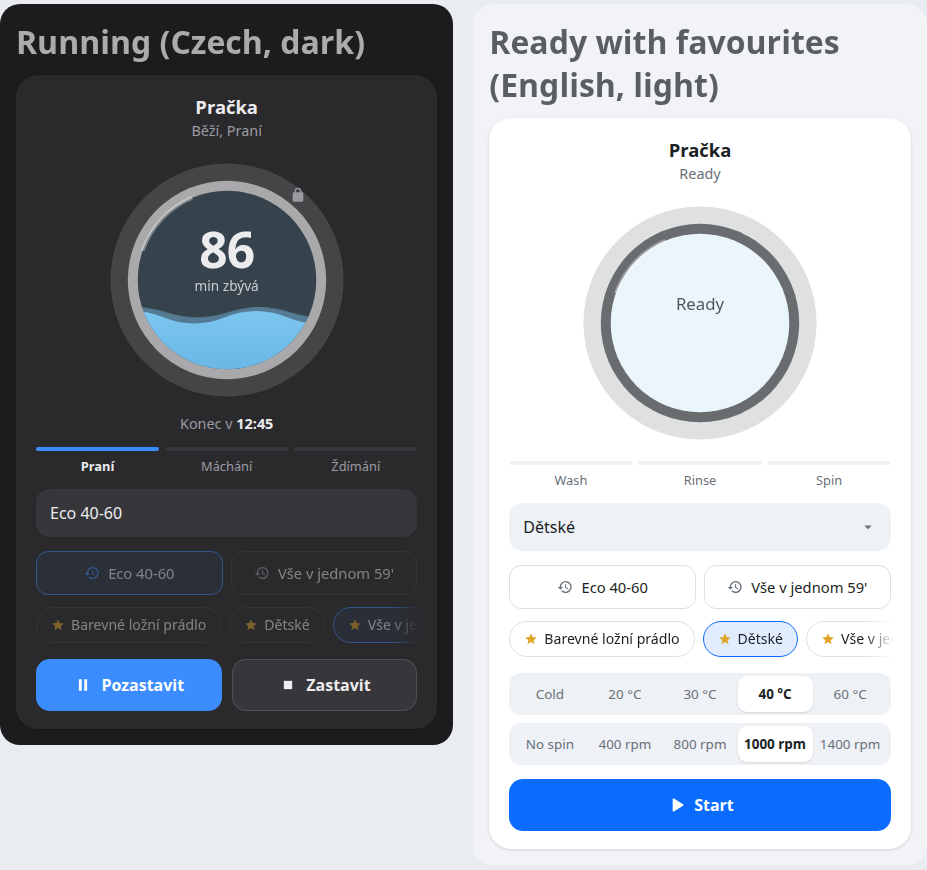
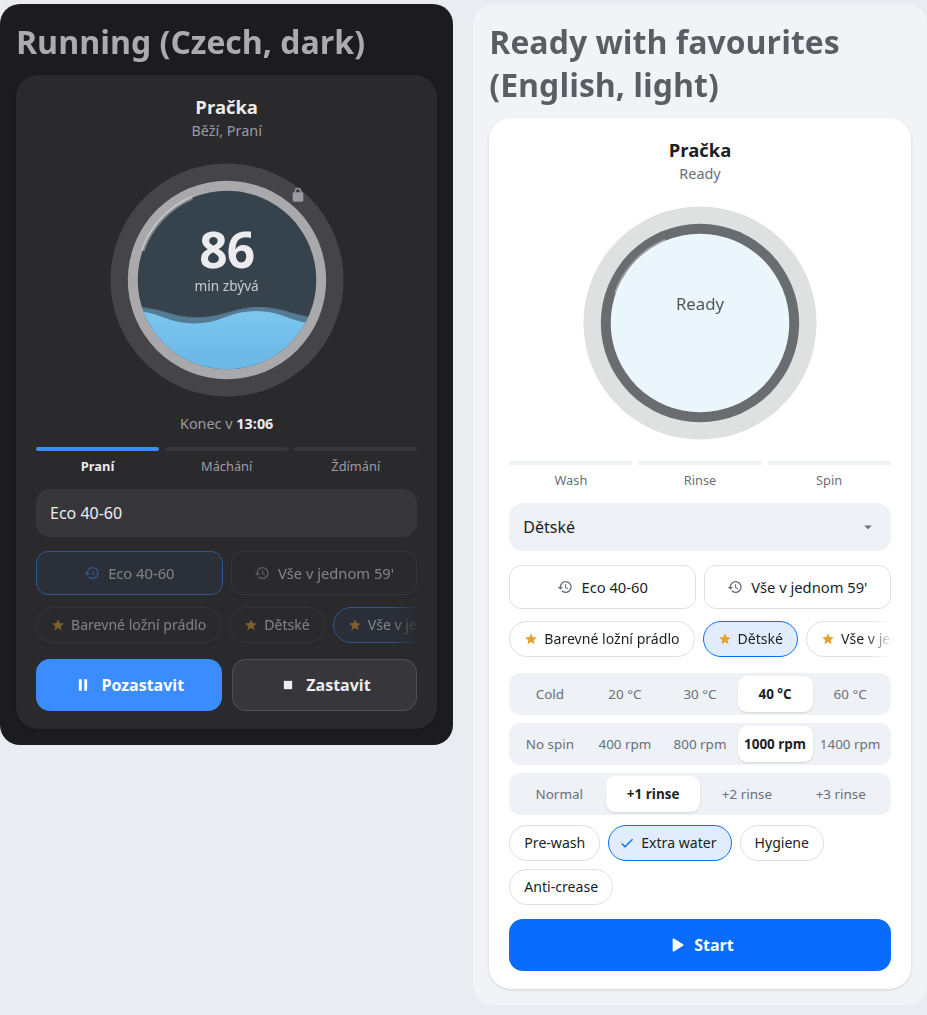
Wash options on the washing machine card
Pre-wash, extra water, hygiene, quiet night and anti-crease become pill
toggles, and the three mutually exclusive extra-rinse switches one
segmented choice. Only usable entities are shown, so the card follows what
the selected program — or favourite — allows. README screenshot refreshed.

Version 0.19.2.4.

diff --git a/custom_components/hon/www/hon-washer-card.js b/custom_components/hon/www/hon-washer-card.js
@@ -11,7 +11,18 @@ const ROLES = {
   start: ["switch", ["washing_machine", "washer_dryer", "tumble_dryer"]],
   pause: ["switch", ["pause"]],
   doorLock: ["binary_sensor", ["door_lock"]],
+  prewash: ["switch", ["prewash"]],
+  extraWater: ["switch", ["acqua_plus"]],
+  hygiene: ["switch", ["hygiene"]],
+  goodNight: ["switch", ["good_night"]],
+  antiCrease: ["switch", ["anti_crease"]],
+  rinse1: ["switch", ["extra_rinse_1"]],
+  rinse2: ["switch", ["extra_rinse_2"]],
+  rinse3: ["switch", ["extra_rinse_3"]],
 };
+
+const TOGGLES = ["prewash", "extraWater", "hygiene", "goodNight", "antiCrease"];
+const RINSES = ["rinse1", "rinse2", "rinse3"];
 
 const STAGES = {
   wash: ["weighting", "heating", "washing", "steam", "tumbling", "refresh"],
@@ -28,6 +39,8 @@ const TEXT = {
     resume: "Resume", remoteOff: "Remote start is off on the machine. Press its remote button to control it from here.",
     noDevice: "Choose a washing machine, washer-dryer or dryer from the hOn integration in the card settings.",
     temperature: "Temperature", spinSpeed: "Spin",
+    options: "Options", extraRinse: "Extra rinse", noExtraRinse: "Normal", plusRinse: "rinse",
+    prewash: "Pre-wash", extraWater: "Extra water", hygiene: "Hygiene", goodNight: "Quiet night", antiCrease: "Anti-crease",
   },
   cs: {
     wash: "Praní", rinse: "Máchání", spin: "Ždímání", dry: "Sušení",
@@ -36,6 +49,8 @@ const TEXT = {
     resume: "Pokračovat", remoteOff: "Dálkové ovládání je na pračce vypnuté. Zapněte ho tlačítkem na pračce.",
     noDevice: "V nastavení karty vyberte pračku, pračku se sušičkou nebo sušičku z integrace hOn.",
     temperature: "Teplota", spinSpeed: "Odstředění",
+    options: "Volby", extraRinse: "Máchání navíc", noExtraRinse: "Běžné", plusRinse: "máchání",
+    prewash: "Předpírka", extraWater: "Více vody", hygiene: "Hygiena", goodNight: "Tichý noční", antiCrease: "Proti zmačkání",
   },
 };
 
@@ -47,6 +62,7 @@ const ICONS = {
   history: "M13 3a9 9 0 0 0-9 9H1l3.9 3.9.1.1L9 12H6a7 7 0 1 1 2.05 4.95l-1.42 1.42A9 9 0 1 0 13 3Zm-1 5v5l4.25 2.52.77-1.28-3.52-2.09V8H12Z",
   lock: "M12 17a2 2 0 1 0 0-4 2 2 0 0 0 0 4Zm6-9h-1V6a5 5 0 0 0-10 0v2H6a2 2 0 0 0-2 2v10a2 2 0 0 0 2 2h12a2 2 0 0 0 2-2V10a2 2 0 0 0-2-2ZM9 6a3 3 0 0 1 6 0v2H9V6Z",
   chevron: "M7 10l5 5 5-5z",
+  check: "M9 16.17 4.83 12l-1.42 1.41L9 19 21 7l-1.41-1.41z",
 };
 
 const svgIcon = (path, size = 20) =>
@@ -214,6 +230,26 @@ class HonWasherCard extends HTMLElement {
     </div>`;
   }
 
+  _options(s) {
+    const e = s.e;
+    const rinses = RINSES.filter((r) => this._usable(e[r]));
+    const toggles = TOGGLES.filter((t) => this._usable(e[t]));
+    if (!rinses.length && !toggles.length) return "";
+    const chosen = RINSES.findIndex((r) => e[r]?.state === "on") + 1;
+    const rinseRow = rinses.length
+      ? `<div class="choice" role="radiogroup" aria-label="${escape(this._t("extraRinse"))}">
+          <button class="seg" role="radio" aria-checked="${chosen === 0}" data-rinse="0">${escape(this._t("noExtraRinse"))}</button>
+          ${rinses.map((r) => `<button class="seg" role="radio" aria-checked="${chosen === RINSES.indexOf(r) + 1}" data-rinse="${RINSES.indexOf(r) + 1}">+${RINSES.indexOf(r) + 1} ${escape(this._t("plusRinse"))}</button>`).join("")}
+        </div>`
+      : "";
+    const pills = toggles.length
+      ? `<div class="options" role="group" aria-label="${escape(this._t("options"))}">
+          ${toggles.map((t) => `<button class="opt" aria-pressed="${e[t].state === "on"}" data-toggle="${escape(e[t].entity_id)}">${e[t].state === "on" ? svgIcon(ICONS.check, 16) : ""}${escape(this._t(t))}</button>`).join("")}
+        </div>`
+      : "";
+    return rinseRow + pills;
+  }
+
   _actions(s) {
     if (s.active) {
       return `<button class="primary" data-action="${s.paused ? "resume" : "pause"}" ${this._usable(s.e.pause) ? "" : "disabled"}>${svgIcon(s.paused ? ICONS.play : ICONS.pause)}${escape(this._t(s.paused ? "resume" : "pause"))}</button>
@@ -260,7 +296,7 @@ class HonWasherCard extends HTMLElement {
         <div class="favourites" aria-label="${escape(this._t("favourites"))}">
           ${s.favourites.map((o) => `<button class="fav" aria-pressed="${o === e.program?.state}" data-select="${escape(e.favourite.entity_id)}" data-option="${escape(o)}" ${s.active ? "disabled" : ""}>${svgIcon(ICONS.star, 14)}${escape(o)}</button>`).join("")}
         </div>` : ""}
-      ${!s.active ? `<div class="settings">${this._chips(e.temperature, this._t("temperature"))}${this._chips(e.spin, this._t("spinSpeed"))}${this._chips(e.dryLevel, this._t("dry"))}</div>` : ""}
+      ${!s.active ? `<div class="settings">${this._chips(e.temperature, this._t("temperature"))}${this._chips(e.spin, this._t("spinSpeed"))}${this._chips(e.dryLevel, this._t("dry"))}${this._options(s)}</div>` : ""}
       <div class="actions">${this._actions(s)}</div>
       ${this._notice(s)}
     </ha-card>`;
@@ -308,6 +344,22 @@ class HonWasherCard extends HTMLElement {
       el.addEventListener("click", () =>
         this._call("select", "select_option", this._hass.states[el.dataset.select], { option: el.dataset.option }),
       ),
+    );
+    this.shadowRoot.querySelectorAll("[data-toggle]").forEach((el) =>
+      el.addEventListener("click", () => {
+        const stateObj = this._hass.states[el.dataset.toggle];
+        this._call("switch", stateObj?.state === "on" ? "turn_off" : "turn_on", stateObj);
+      }),
+    );
+    this.shadowRoot.querySelectorAll("[data-rinse]").forEach((el) =>
+      el.addEventListener("click", () => {
+        const want = Number(el.dataset.rinse);
+        RINSES.forEach((r, i) => {
+          const on = s.e[r]?.state === "on";
+          if (i + 1 === want && !on) this._call("switch", "turn_on", s.e[r]);
+          if (i + 1 !== want && on) this._call("switch", "turn_off", s.e[r]);
+        });
+      }),
     );
     this.shadowRoot.querySelector("[data-program]")?.addEventListener("change", (ev) =>
       this._call("select", "select_option", s.e.program, { option: ev.target.value }),
@@ -397,6 +449,11 @@ const STYLE = `<style>
   .fav[aria-pressed="true"] { background: color-mix(in srgb, var(--hon-action) 12%, transparent); border-color: var(--hon-action); }
 
   .settings { display: grid; gap: 8px; }
+  .options { display: flex; flex-wrap: wrap; gap: 8px; padding-top: 2px; }
+  .opt { display: inline-flex; align-items: center; gap: 6px; min-height: 36px; padding: 0 14px; border-radius: 18px; border: 1px solid var(--hon-line); background: none; color: var(--hon-ink); font: inherit; font-size: 0.88rem; cursor: pointer; }
+  .opt[aria-pressed="true"] { padding-left: 10px; background: color-mix(in srgb, var(--hon-action) 12%, transparent); border-color: var(--hon-action); }
+  .opt svg { color: var(--hon-action); }
+  .opt:focus-visible, .seg:focus-visible, .fav:focus-visible, .pick:focus-visible { outline: 2px solid var(--hon-action); outline-offset: 2px; }
   .settings:empty { display: none; }
   .choice { display: grid; grid-auto-flow: column; grid-auto-columns: minmax(0, 1fr); padding: 3px; border-radius: 12px; background: var(--hon-well); }
   .seg { min-height: 36px; padding: 0 4px; border: 0; border-radius: 9px; background: none; color: var(--hon-muted); font: inherit; font-size: 0.84rem; white-space: nowrap; overflow: hidden; text-overflow: ellipsis; cursor: pointer; }

diff --git a/dev/card-preview.html b/dev/card-preview.html
@@ -49,7 +49,7 @@
   };
   const UNITS = { "select.washer_temperature": " °C", "select.washer_spin": " rpm" };
 
-  function makeHass({ language, status, phase, remaining, program, start = "off", pause = "off", lock = "off" }) {
+  function makeHass({ language, status, phase, remaining, program, start = "off", pause = "off", lock = "off", options = [] }) {
     const states = {};
     const entities = {};
     const add = (entity_id, translation_key, state, attributes = {}) => {
@@ -71,6 +71,14 @@
     add("switch.washer_start", "washing_machine", start);
     add("switch.washer_pause", "pause", pause);
     add("binary_sensor.washer_door_lock", "door_lock", lock);
+    add("switch.washer_prewash", "prewash", options.includes("prewash") ? "on" : "off");
+    add("switch.washer_acquaplus", "acqua_plus", options.includes("extraWater") ? "on" : "off");
+    add("switch.washer_hygiene", "hygiene", "off");
+    add("switch.washer_good_night", "good_night", "unavailable");
+    add("switch.washer_anticrease", "anti_crease", "off");
+    add("switch.washer_rinse_1", "extra_rinse_1", options.includes("rinse1") ? "on" : "off");
+    add("switch.washer_rinse_2", "extra_rinse_2", "off");
+    add("switch.washer_rinse_3", "extra_rinse_3", "off");
     return {
       states, entities,
       devices: { washer: { name: "Pračka" } },
@@ -92,7 +100,7 @@
     document.getElementById(id).append(card);
   };
   mount("running", makeHass({ language: "cs", status: "running", phase: "washing", remaining: 86, program: "Vše v jednom 59'", start: "on", lock: "on" }));
-  mount("idle", makeHass({ language: "en", status: "ready", phase: "ready", remaining: 0, program: "Dětské" }));
+  mount("idle", makeHass({ language: "en", status: "ready", phase: "ready", remaining: 0, program: "Dětské", options: ["extraWater", "rinse1"] }));
   mount("remote", makeHass({ language: "en", status: "ready", phase: "ready", remaining: 0, program: "cottons", start: "unavailable", pause: "unavailable" }));
   mount("compact-running", makeHass({ language: "cs", status: "running", phase: "rinse", remaining: 24, program: "Vše v jednom 59'", start: "on", lock: "on" }), "compact");
   mount("compact-idle", makeHass({ language: "cs", status: "ready", phase: "ready", remaining: 0, program: "eco_40_60_new_energy_label" }), "compact");

diff --git a/README.md b/README.md
@@ -12,7 +12,7 @@ Control and monitor your **Haier, Candy and Hoover** appliances from Home Assist
 
 ## What you get
 
-- **A washing machine card**, installed with the integration: time left, wash stage, program and favourite pickers, temperature, spin, and start, pause and stop. A compact one-row layout for small dashboards. See [Washing machine card](#washing-machine-card).
+- **A washing machine card**, installed with the integration: time left, wash stage, program and favourite pickers, temperature, spin, drying, wash options (pre-wash, extra water, extra rinses and more), and start, pause and stop. A compact one-row layout for small dashboards. See [Washing machine card](#washing-machine-card).
 - **Your hOn app favourites** as their own program picker, and the **programs you ran recently**, wherever you started them.
 - **Sensors, switches and settings** for each appliance type — every entity is listed under [Supported Appliances](#supported-appliances).
 - **Sign in again without reinstalling**: when hOn stops accepting your login, Home Assistant asks for the password and keeps your devices and history.
@@ -44,7 +44,7 @@ _If the integration is not in the list, you need to clear the browser cache._
 
 ## Washing machine card
 
-The integration ships a dashboard card for washing machines, washer-dryers and tumble dryers. It shows the time left and the wash stage, lets you pick a program or one of the favourites you saved in the hOn app, set temperature and spin, and start, pause or stop the machine.
+The integration ships a dashboard card for washing machines, washer-dryers and tumble dryers. It shows the time left and the wash stage, lets you pick a program or one of the favourites you saved in the hOn app, set temperature, spin and drying, switch wash options such as pre-wash, extra water and extra rinses, and start, pause or stop the machine. Only the options the selected program allows are shown.
 
 ```yaml
 type: custom:hon-washer-card

diff --git a/JOURNAL.md b/JOURNAL.md
@@ -2,6 +2,11 @@
 
 Decisions and their reasons, newest first.
 
+## 2026-11-10 — Wash options on the card
+
+- **Problem:** the card had no way to set pre-wash, extra water or extra rinses, so a favourite's options could not be seen or changed from it (Jan).
+- **Decision:** extra rinses (`extra_rinse_1/2/3`) are one segmented choice, because the three switches exclude each other; the card turns the chosen one on and the others off. Pre-wash, extra water (`acqua_plus`), hygiene, good night and anti-crease are wrapping pill toggles. Only `usable` entities are shown — the integration marks an option unavailable when the selected program does not allow it, which is what makes a favourite show its own options.
+
 ## 2026-11-10 — Re-read appliances over REST every 5 minutes
 
 - **Problem:** on Jan's washer-dryer the start switch was `unavailable` from 2026-11-07 and the "Remote Control" sensor `off` from 2026-10-18, while settings commands sent from Home Assistant still reached the machine. Starting a wash from HA was impossible.

diff --git a/CHANGELOG.md b/CHANGELOG.md
@@ -1,5 +1,11 @@
 # Changelog
 
+## 0.19.2.4
+
+### New
+
+- **Wash options on the washing machine card.** Pre-wash, extra water, hygiene, quiet night and anti-crease are now toggles on the card, and extra rinses (+1, +2, +3) are one choice row. The card shows only the options the selected program allows, so picking a favourite shows that favourite's options, ready to change before you press Start.
+
 ## 0.19.2.3
 
 ### Fixed
